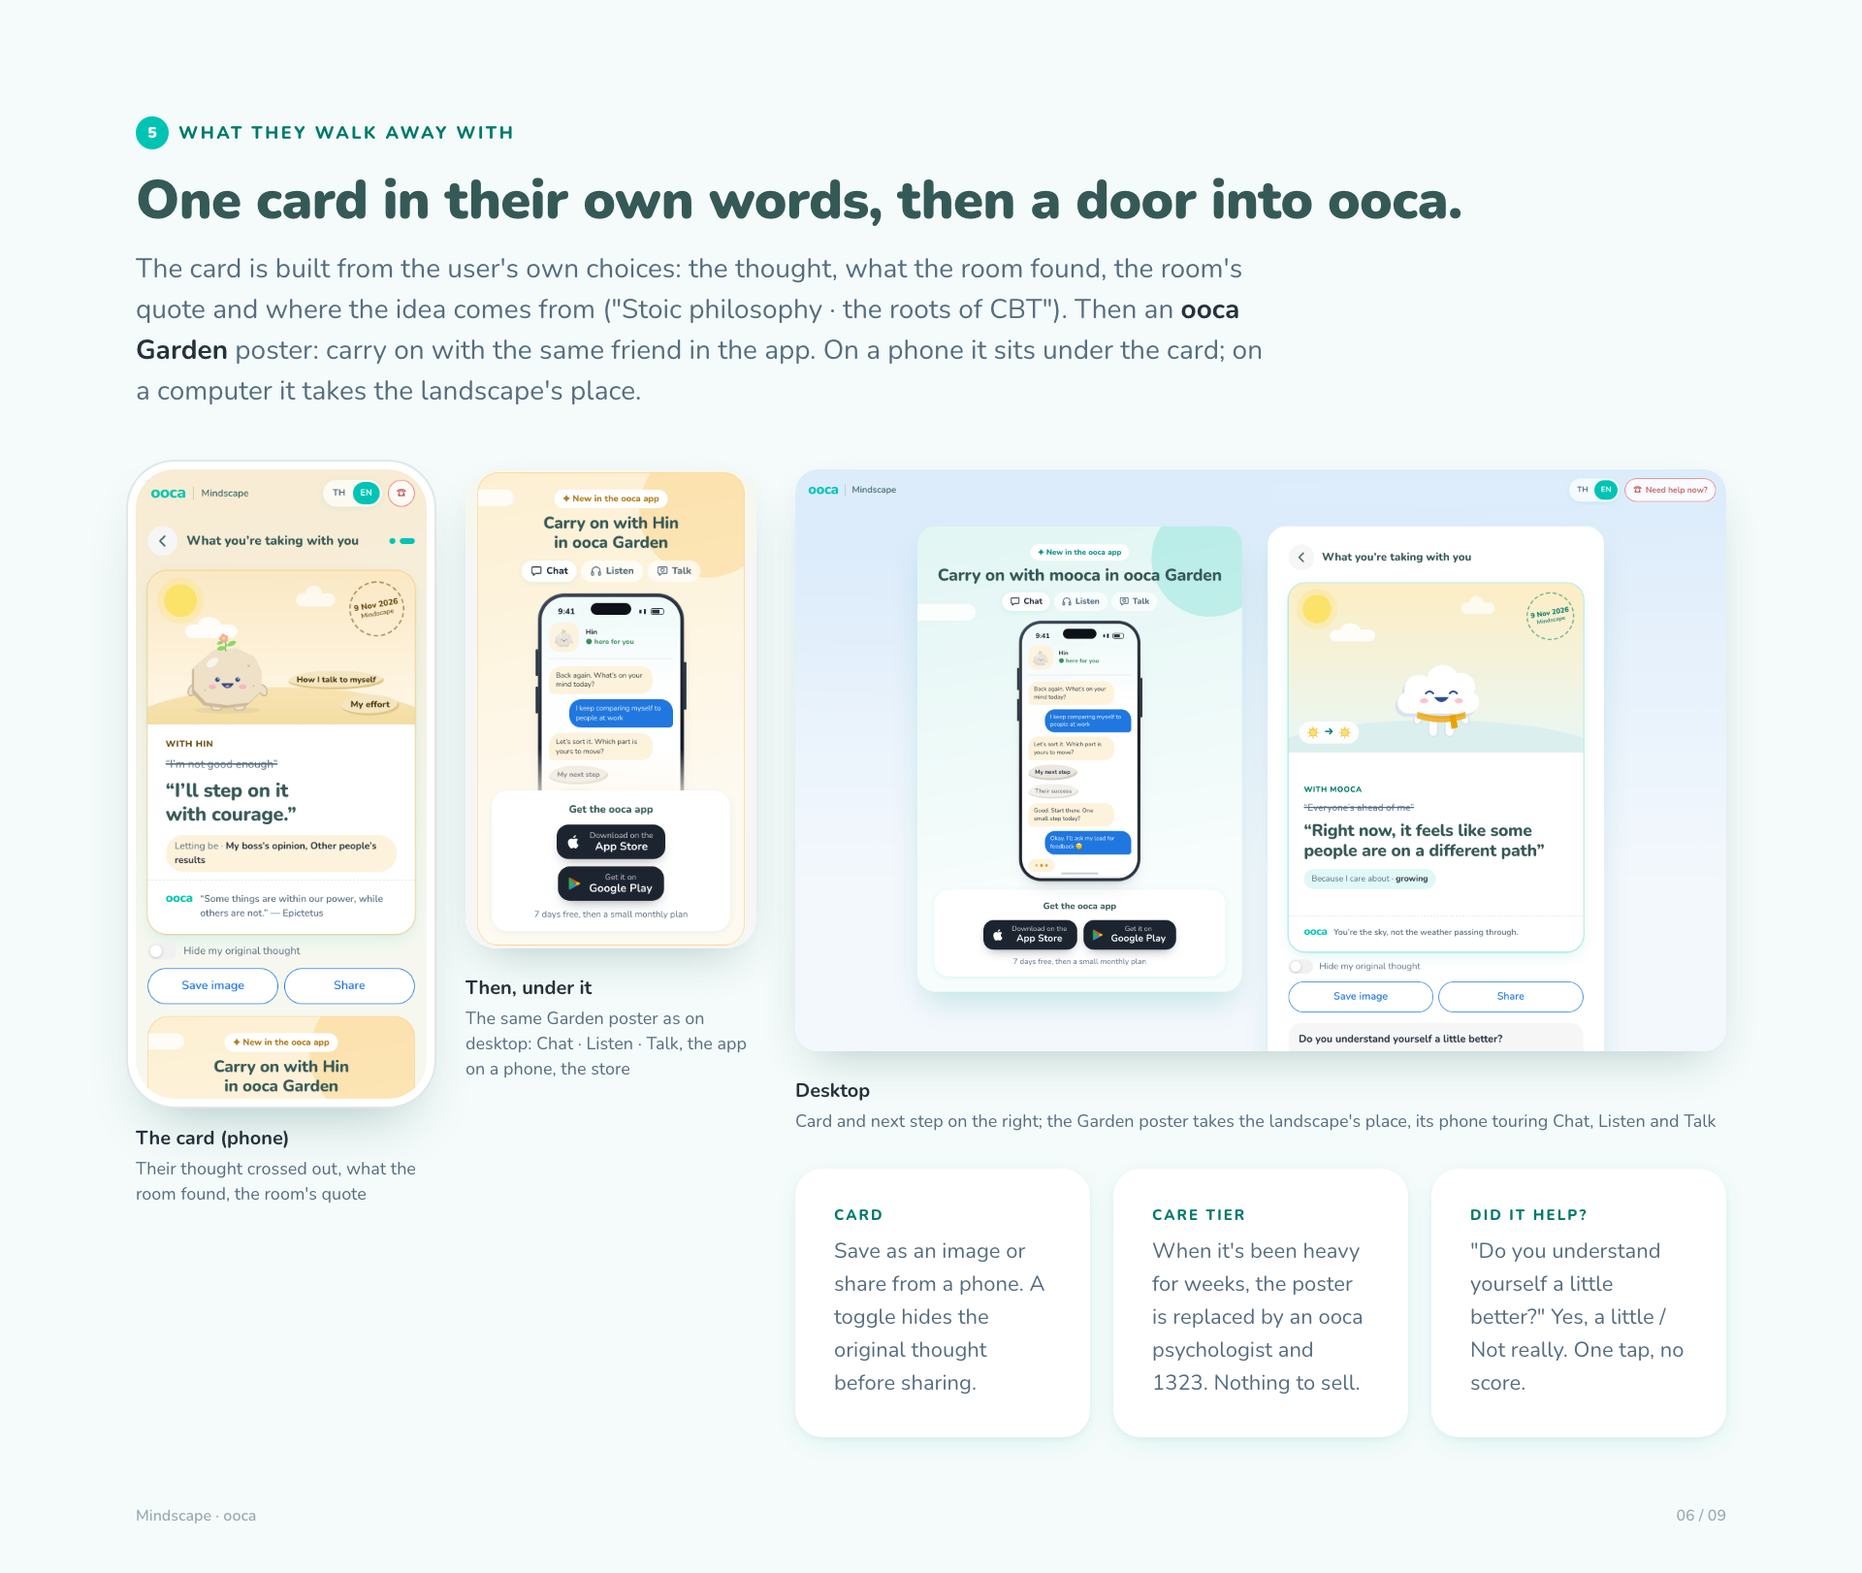
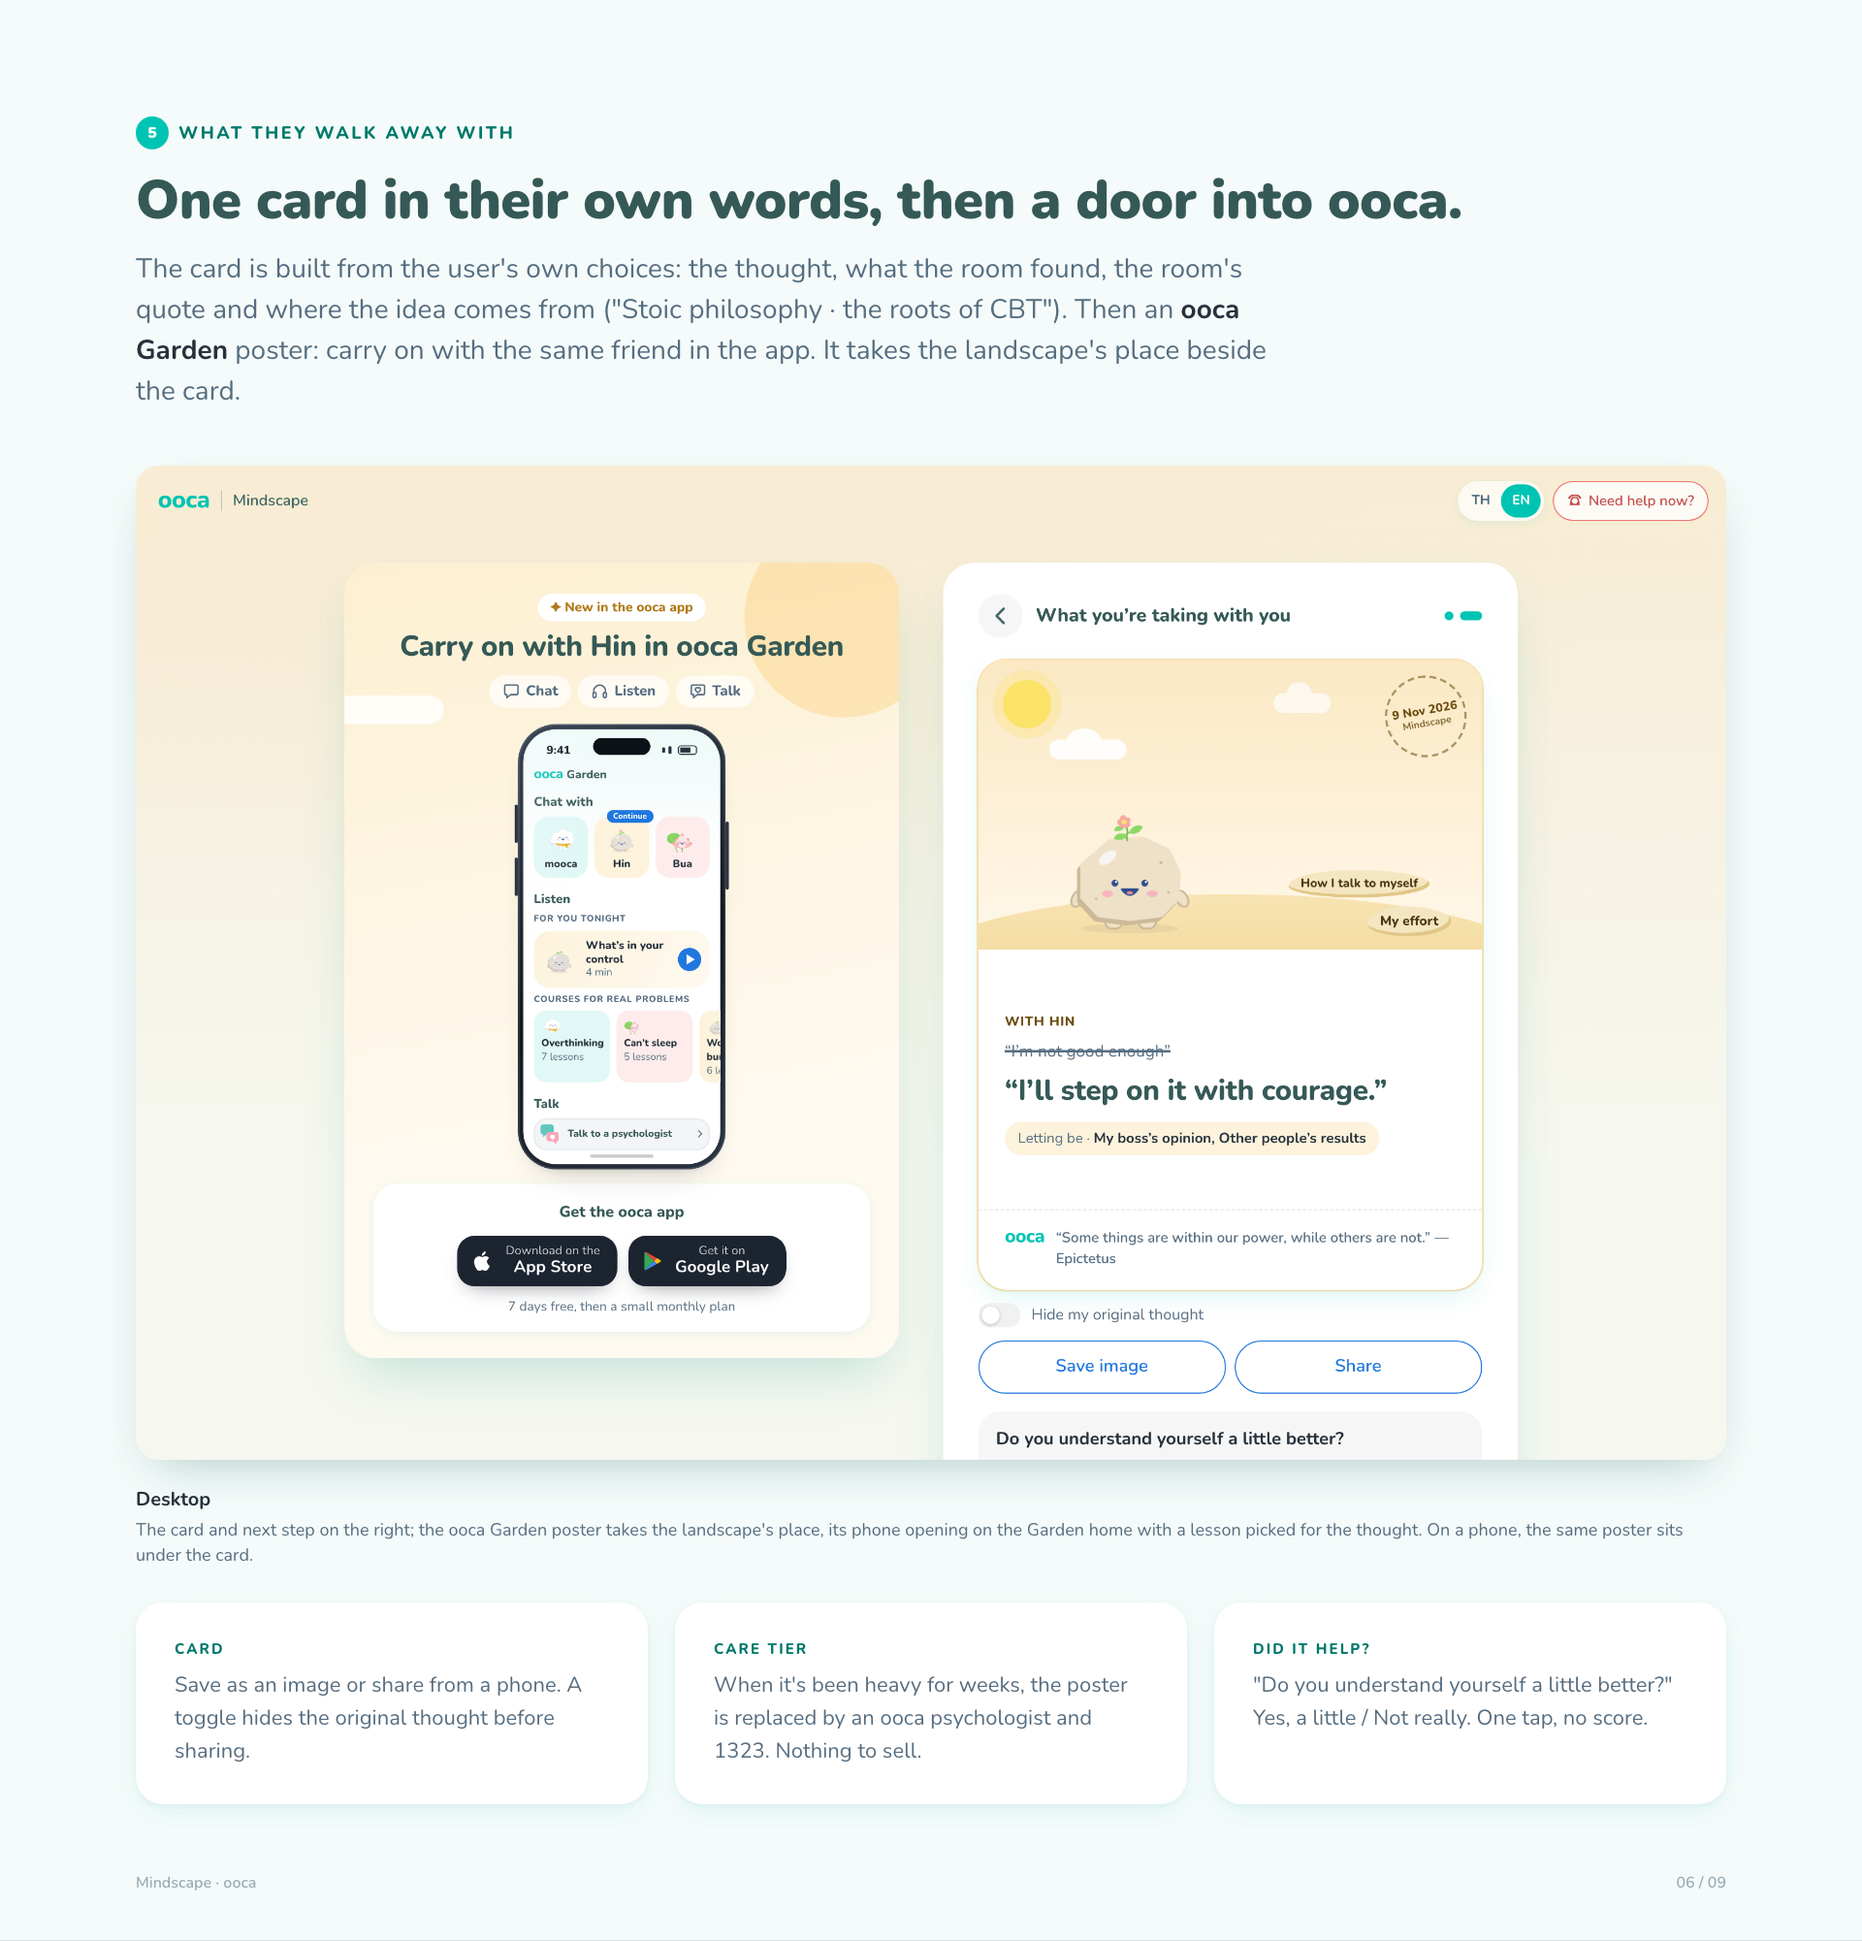
Board: ending page shows desktop only, phone on Garden home

diff --git a/public/board/index.html b/public/board/index.html
@@ -329,19 +329,13 @@ ul.clean li:before{content:"";position:absolute;left:4px;top:13px;width:10px;hei
 <section class="frame frame--tint" id="ending">
   <span class="tag"><b>5</b>What they walk away with</span>
   <h2>One card in their own words, then a door into ooca.</h2>
-  <p class="lede">The card is built from the user's own choices: the thought, what the room found, the room's quote and where the idea comes from ("Stoic philosophy · the roots of CBT"). Then an <b>ooca Garden</b> poster: carry on with the same friend in the app. On a phone it sits under the card; on a computer it takes the landscape's place.</p>
-  <div class="row" style="margin-top:60px;gap:40px;align-items:flex-start">
-    <div><div class="phone"><img src="screens/hin-ending.png" alt=""></div><p class="cap"><b>The card (phone)</b>Their thought crossed out, what the room found, the room's quote</p></div>
-    <div><div class="shot" style="width:300px;border-radius:32px"><img src="screens/m-poster.png" alt=""></div><p class="cap"><b>Then, under it</b>The same Garden poster as on desktop: Chat · Listen · Talk, the app on a phone, the store</p></div>
-    <div style="flex:1">
-      <div class="shot"><img src="screens/desk-ending.png" alt=""></div>
-      <p class="cap" style="max-width:none"><b>Desktop</b>Card and next step on the right; the Garden poster takes the landscape's place, its phone touring Chat, Listen and Talk</p>
-      <div class="grid" style="grid-template-columns:repeat(3,1fr);margin-top:36px;gap:24px">
-        <div class="card"><span class="k">Card</span><p>Save as an image or share from a phone. A toggle hides the original thought before sharing.</p></div>
-        <div class="card"><span class="k">Care tier</span><p>When it's been heavy for weeks, the poster is replaced by an ooca psychologist and 1323. Nothing to sell.</p></div>
-        <div class="card"><span class="k">Did it help?</span><p>"Do you understand yourself a little better?" Yes, a little / Not really. One tap, no score.</p></div>
-      </div>
-    </div>
+  <p class="lede">The card is built from the user's own choices: the thought, what the room found, the room's quote and where the idea comes from ("Stoic philosophy · the roots of CBT"). Then an <b>ooca Garden</b> poster: carry on with the same friend in the app. It takes the landscape's place beside the card.</p>
+  <div class="shot" style="margin-top:56px"><img src="screens/desk-ending.png" alt=""></div>
+  <p class="cap" style="max-width:none"><b>Desktop</b>The card and next step on the right; the ooca Garden poster takes the landscape's place, its phone opening on the Garden home with a lesson picked for the thought. On a phone, the same poster sits under the card.</p>
+  <div class="grid" style="grid-template-columns:repeat(3,1fr);margin-top:36px;gap:28px">
+    <div class="card"><span class="k">Card</span><p>Save as an image or share from a phone. A toggle hides the original thought before sharing.</p></div>
+    <div class="card"><span class="k">Care tier</span><p>When it's been heavy for weeks, the poster is replaced by an ooca psychologist and 1323. Nothing to sell.</p></div>
+    <div class="card"><span class="k">Did it help?</span><p>"Do you understand yourself a little better?" Yes, a little / Not really. One tap, no score.</p></div>
   </div>
   <div class="foot"><span>Mindscape · ooca</span><span>06 / 09</span></div>
 </section>
